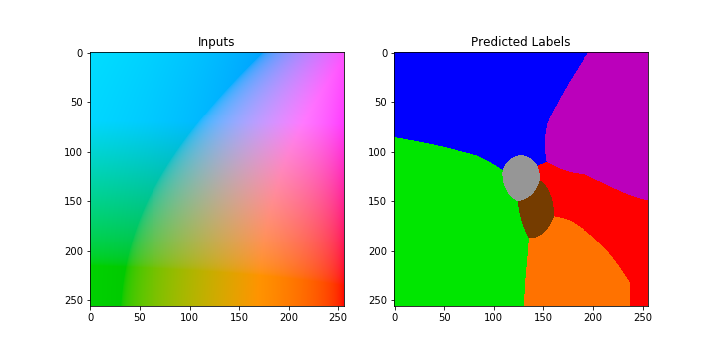
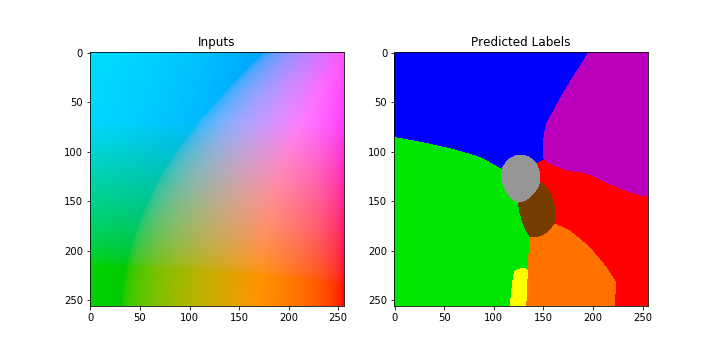
working set

diff --git a/ex7/code/colour_bayes.py b/ex7/code/colour_bayes.py
@@ -1,0 +1,116 @@
+
+# coding: utf-8
+
+# In[1]:
+
+import numpy as np
+import pandas as pd
+import matplotlib.pyplot as plt
+from skimage.color import lab2rgb
+from sklearn import model_selection
+from sklearn.naive_bayes import GaussianNB
+import sys
+from sklearn.metrics import accuracy_score
+from skimage import color
+from sklearn import pipeline
+from sklearn import preprocessing
+
+
+# In[4]:
+
+def my_rgb2lab(colors): 
+    old_shape = colors.shape
+    reshaped = colors.reshape(old_shape[0],1,old_shape[1])
+    lab = color.rgb2lab(reshaped)
+    return lab.reshape(old_shape)
+
+
+# In[6]:
+
+# representative RGB colours for each label, for nice display
+COLOUR_RGB = {
+    'red': (255, 0, 0),
+    'orange': (255, 114, 0),
+    'yellow': (255, 255, 0),
+    'green': (0, 230, 0),
+    'blue': (0, 0, 255),
+    'purple': (187, 0, 187),
+    'brown': (117, 60, 0),
+    'black': (0, 0, 0),
+    'grey': (150, 150, 150),
+    'white': (255, 255, 255),
+}
+name_to_rgb = np.vectorize(COLOUR_RGB.get, otypes=[np.uint8, np.uint8, np.uint8])
+
+
+def plot_predictions(model, lum=71, resolution=256):
+    """
+    Create a slice of LAB colour space with given luminance; predict with the model; plot the results.
+    """
+    wid = resolution
+    hei = resolution
+
+    # create a hei*wid grid of LAB colour values, with L=lum
+    ag = np.linspace(-100, 100, wid)
+    bg = np.linspace(-100, 100, hei)
+    aa, bb = np.meshgrid(ag, bg)
+    ll = lum * np.ones((hei, wid))
+    lab_grid = np.stack([ll, aa, bb], axis=2)
+
+    # convert to RGB for consistency with original input
+    X_grid = lab2rgb(lab_grid)
+
+    # predict and convert predictions to colours so we can see what's happening
+    y_grid = model.predict(X_grid.reshape((wid*hei, 3)))
+    pixels = np.stack(name_to_rgb(y_grid), axis=1) / 255
+    pixels = pixels.reshape((hei, wid, 3))
+
+    # plot input and predictions
+    plt.figure(figsize=(10, 5))
+    plt.subplot(1, 2, 1)
+    plt.title('Inputs')
+    plt.imshow(X_grid.reshape((hei, wid, 3)))
+
+    plt.subplot(1, 2, 2)
+    plt.title('Predicted Labels')
+    plt.imshow(pixels)
+
+
+    
+def main():
+#     data = pd.read_csv("colour-data.csv")
+    data = pd.read_csv(sys.argv[1])
+    X = data # array with shape (n, 3). Divide by 255
+    y = data # array with shape (n,) of colour words
+
+    # TODO: build model_rgb to predict y from X.
+    # TODO: print model_rgb's accuracy_score
+
+    # TODO: build model_lab to predict y from X by converting to LAB colour first.
+    # TODO: print model_lab's accuracy_score
+    
+    data = pd.read_csv("colour-data.csv")
+    rgb_columns = ["R","G","B"]
+    data[rgb_columns] = data[rgb_columns].values/255
+    X_train,X_test,Y_train,Y_test = model_selection.train_test_split(data[rgb_columns].values,data["Label"].values)
+    model_rgb = GaussianNB()
+    model_rgb = model_rgb.fit(X_train, Y_train)
+    Y_predicted = model_rgb.predict(X_test)
+    print(accuracy_score(Y_test, Y_predicted))
+    
+    
+
+    model_lab = pipeline.make_pipeline(preprocessing.FunctionTransformer(my_rgb2lab),GaussianNB())
+    model_lab = model_lab.fit(X_train, Y_train)
+    Y_predicted_lab = model_lab.predict(X_test)
+    print(accuracy_score(Y_test, Y_predicted_lab))
+    
+    
+    plt.savefig('predictions_rgb.png')
+    plot_predictions(model_lab)
+    plt.savefig('predictions_lab.png')
+
+
+if __name__ == '__main__':
+    main()
+
